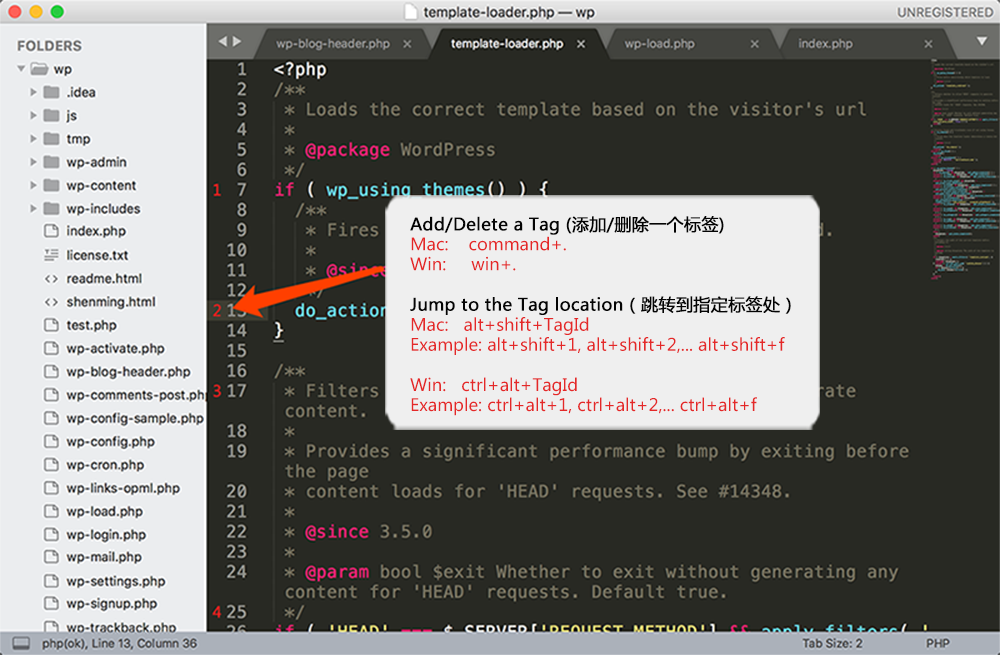
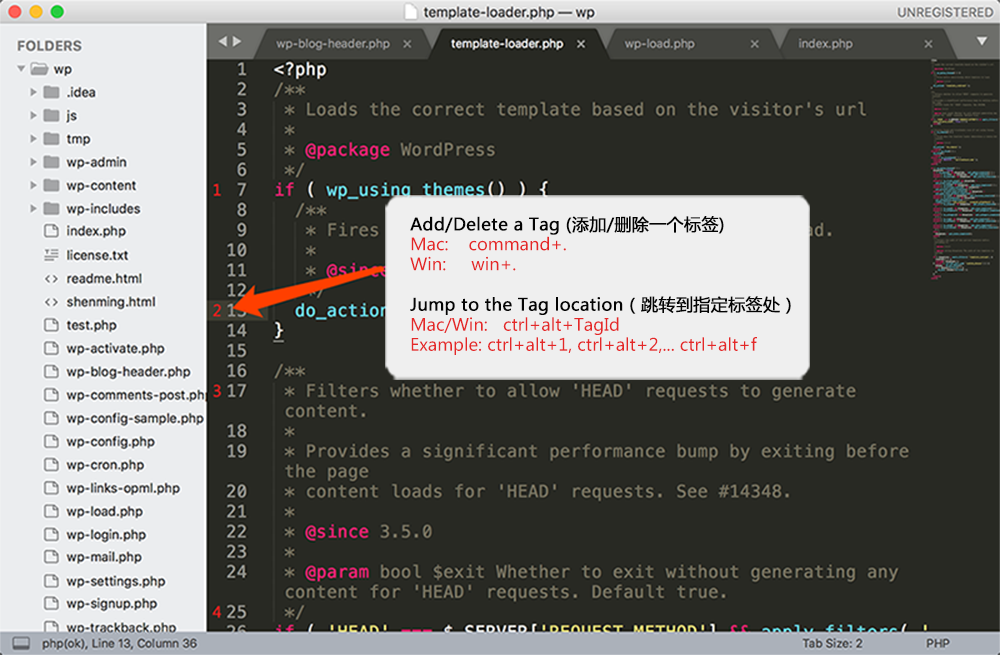
edit keymap

Changed region(s): [[0.372, 0.3053, 0.837, 0.6718]]

diff --git a/README.md b/README.md
@@ -10,16 +10,11 @@ Mac:    command+.
 Win:     win+.  
 
 #### Jump to the Tag location（跳转到指定标签处）  
-Mac: alt+shift+TagId  
-Example: alt+shift+1, alt+shift+2, alt+shift+3,...alt+shift+f  
-
-Win: ctrl+alt+TagId  
+Mac/Win: ctrl+alt+TagId  
 Example: ctrl+alt+1, ctrl+alt+2, ctrl+alt+3,...ctrl+alt+f  
-
-(Mac: alt+shift+e have some problems)  
 
 #### Remove all Tag（删除全部标签）  
 Mac: command+shift+.  
 Win: win+shift+.  
 
-![manual](https://raw.githubusercontent.com/dclnet/gototag/master/gotoTag.png) 
+![manual](https://raw.githubusercontent.com/dclnet/gotoTag/master/gotoTag.png) 
